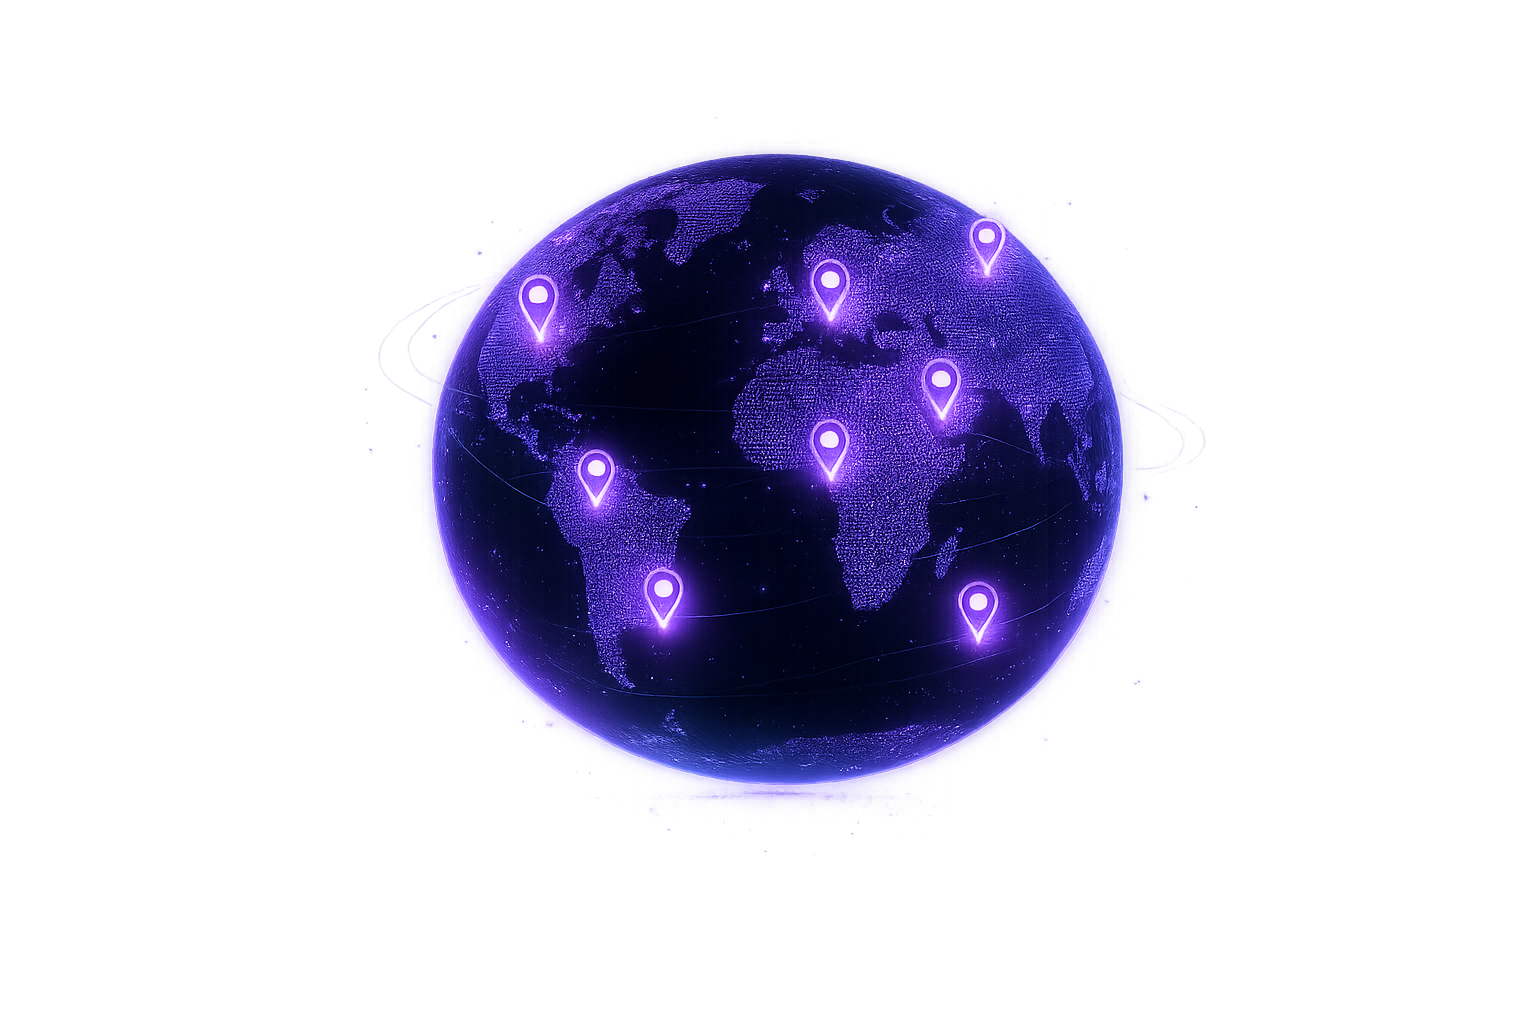
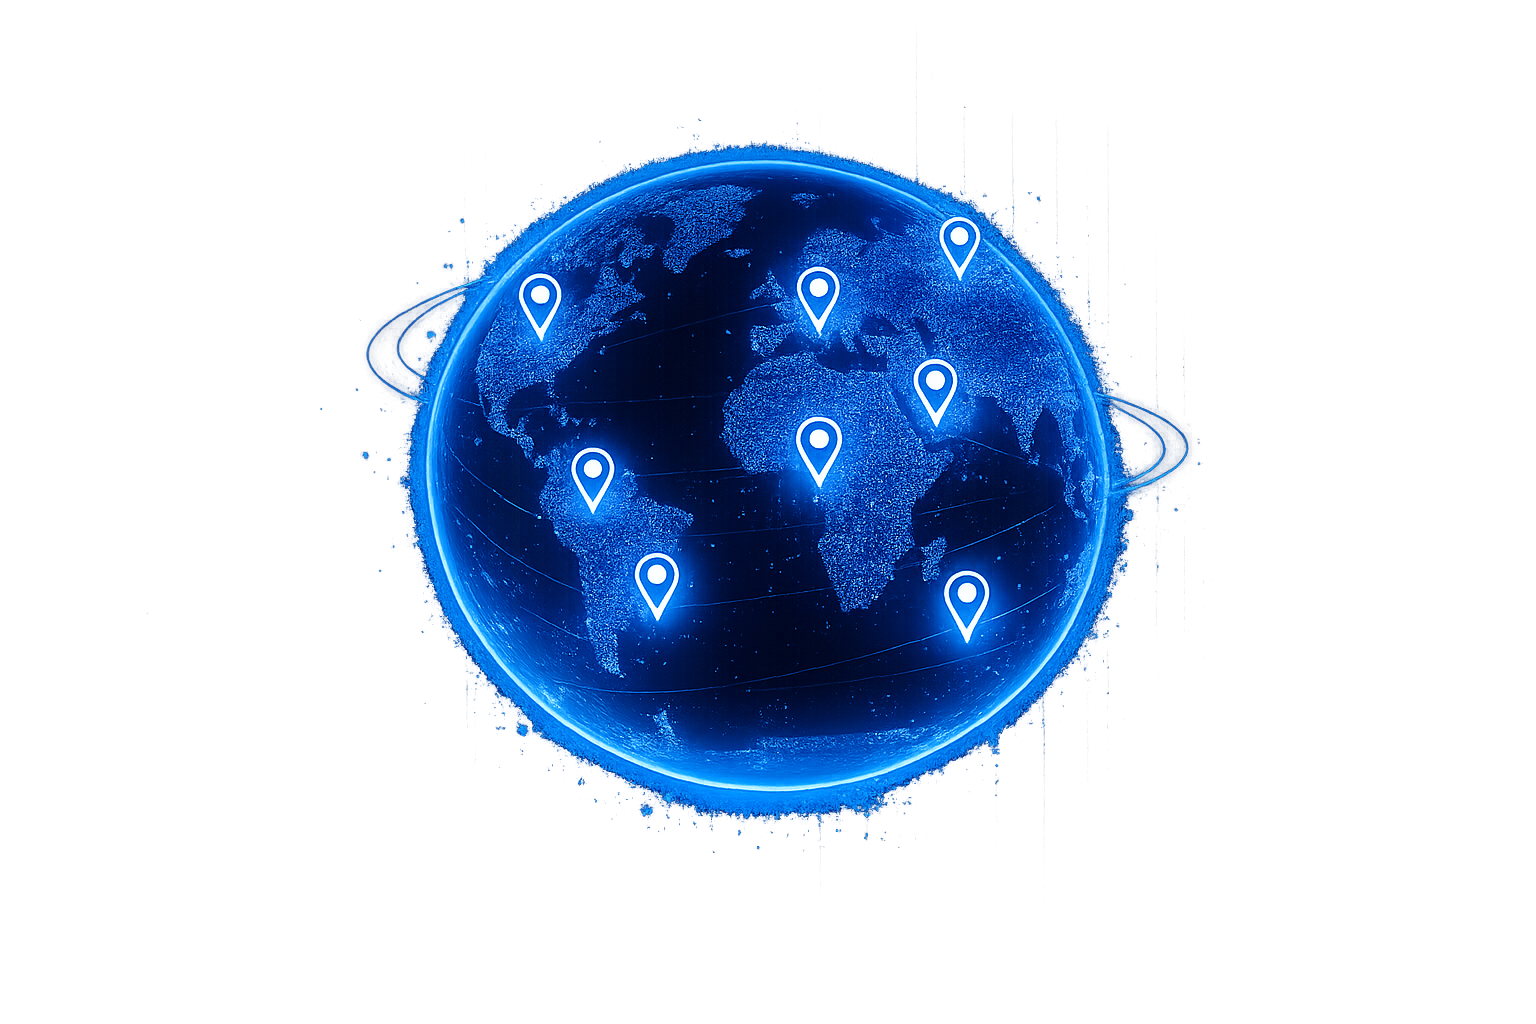
changing images to fit the new color

Changed region(s): [[0.25, 0.125, 0.7812, 0.8125]]

diff --git a/frontend/src/pages/Auth.tsx b/frontend/src/pages/Auth.tsx
@@ -15,7 +15,7 @@ export default function Auth() {
             <br />
             Explore.
             <br />
-            <span className="text-violet-500">Remember.</span>
+            <span className="text-blue-500">Remember.</span>
           </h1>
 
           <p className="mt-8 max-w-xl text-2xl text-slate-400">
@@ -26,7 +26,6 @@ export default function Auth() {
             <button
               className="
                 rounded-2xl
-                bg-blue-600
                 px-8
                 py-4
                 text-lg
@@ -68,7 +67,7 @@ export default function Auth() {
 
           <div className="mt-16 flex flex-wrap gap-10">
             <div className="flex gap-3">
-              <MapPin size={24} className="text-violet-500" />
+              <MapPin size={24} className="text-blue-500" />
 
               <div>
                 <h3 className="font-semibold text-white">Save Places</h3>
@@ -78,7 +77,7 @@ export default function Auth() {
             </div>
 
             <div className="flex gap-3">
-              <Globe size={24} className="text-violet-500" />
+              <Globe size={24} className="text-blue-500" />
 
               <div>
                 <h3 className="font-semibold text-white">View on Map</h3>
@@ -88,7 +87,7 @@ export default function Auth() {
             </div>
 
             <div className="flex gap-3">
-              <Pencil size={24} className="text-violet-500" />
+              <Pencil size={24} className="text-blue-500" />
 
               <div>
                 <h3 className="font-semibold text-white">Easy to Manage</h3>